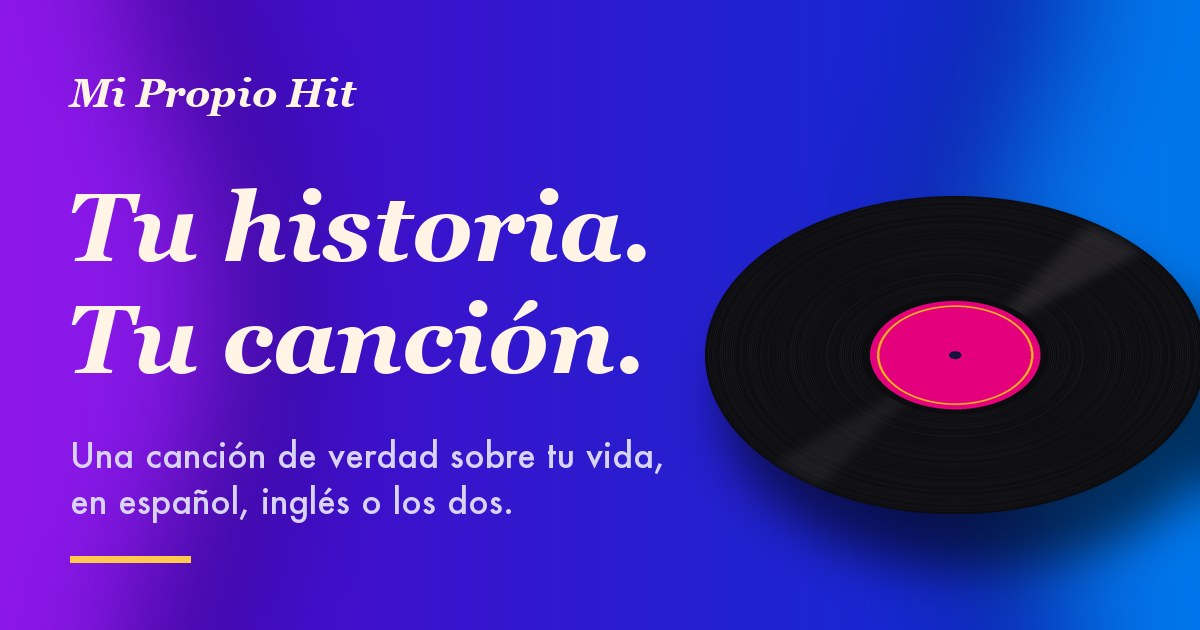
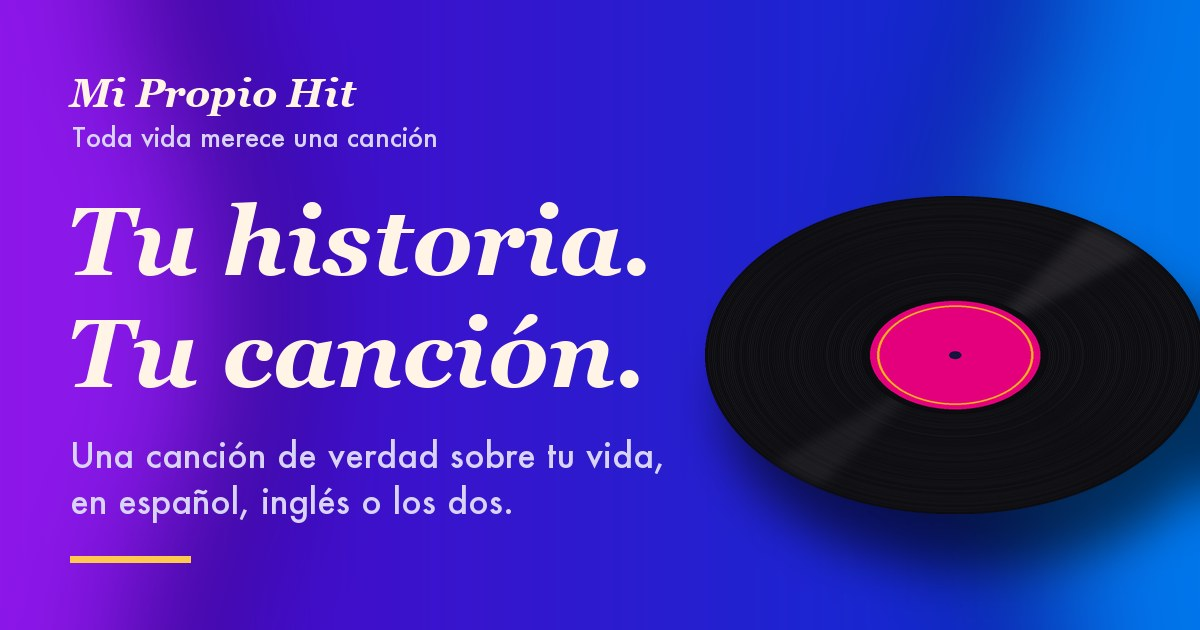
Tagline 'Every life deserves a song' / 'Toda vida merece una canción' always paired with the name: header, titles, footer, preview cards, email signatures

Changed region(s): [[0.0617, 0.3016, 0.555, 0.4524], [0.0617, 0.4825, 0.555, 0.6333], [0.0617, 0.181, 0.37, 0.2413]]

diff --git a/es.html b/es.html
@@ -3,14 +3,14 @@
 <head>
 <meta charset="utf-8">
 <meta name="viewport" content="width=device-width, initial-scale=1">
-<title>Mi Propio Hit | Tu historia, hecha tu propia canción</title>
+<title>Mi Propio Hit | Toda vida merece una canción</title>
 <meta name="description" content="Tu historia hecha una canción de verdad, en el estilo que siempre quisiste: corridos, oldies, R&amp;B, banda. En español, inglés o los dos. O hazle una a alguien que quieres.">
 <link rel="canonical" href="https://myownhit.com/es.html">
 <link rel="alternate" hreflang="en" href="https://myownhit.com/">
 <link rel="alternate" hreflang="es" href="https://myownhit.com/es.html">
 <link rel="alternate" hreflang="x-default" href="https://myownhit.com/">
 <meta property="og:type" content="website">
-<meta property="og:title" content="Mi Propio Hit | Tu historia, hecha tu propia canción">
+<meta property="og:title" content="Mi Propio Hit | Toda vida merece una canción">
 <meta property="og:description" content="Tu historia. Tu canción. En el estilo que siempre quisiste, en español, inglés o los dos.">
 <meta property="og:url" content="https://myownhit.com/es.html">
 <meta property="og:locale" content="es_US">
@@ -46,7 +46,7 @@
 
 <header class="top">
   <div class="wrap">
-    <a class="brand" href="es.html">Mi Propio Hit</a>
+    <a class="brand" href="es.html"><span class="brand-name">Mi Propio Hit</span><span class="brand-tag">Toda vida merece una canción</span></a>
     <nav aria-label="Principal">
       <a class="hide-sm" href="#listen">Escuchar</a>
       <a class="hide-sm" href="#examples">Ejemplos</a>
@@ -222,7 +222,7 @@ and every song it plays sounds like you to me.</blockquote>
 
 <footer>
   <div class="wrap">
-    <span>Mi Propio Hit es de <a href="https://ojedaworks.com/es.html">Ojeda Works</a>.</span>
+    <span><b>Mi Propio Hit</b>. Toda vida merece una canción. Hecho por <a href="https://ojedaworks.com/es.html">Ojeda Works</a>.</span>
     <span><a href="mailto:alejandro@ojedaworks.com">alejandro@ojedaworks.com</a> &nbsp; <a href="https://ojedaworks.com/privacidad.html">Privacidad</a></span>
   </div>
 </footer>

diff --git a/index.html b/index.html
@@ -3,14 +3,14 @@
 <head>
 <meta charset="utf-8">
 <meta name="viewport" content="width=device-width, initial-scale=1">
-<title>My Own Hit | Your story, made into your own song</title>
+<title>My Own Hit | Every life deserves a song</title>
 <meta name="description" content="Your story, made into a real song in the style you've always wanted: corridos, oldies, R&amp;B, country. In English, Spanish, or both. Or make one for someone you love.">
 <link rel="canonical" href="https://myownhit.com/">
 <link rel="alternate" hreflang="en" href="https://myownhit.com/">
 <link rel="alternate" hreflang="es" href="https://myownhit.com/es.html">
 <link rel="alternate" hreflang="x-default" href="https://myownhit.com/">
 <meta property="og:type" content="website">
-<meta property="og:title" content="My Own Hit | Your story, made into your own song">
+<meta property="og:title" content="My Own Hit | Every life deserves a song">
 <meta property="og:description" content="Your story. Your song. In the style you've always wanted, in English, Spanish, or both.">
 <meta property="og:url" content="https://myownhit.com/">
 <meta property="og:image" content="https://myownhit.com/assets/og-card.jpg">
@@ -45,7 +45,7 @@
 
 <header class="top">
   <div class="wrap">
-    <a class="brand" href="./">My Own Hit</a>
+    <a class="brand" href="./"><span class="brand-name">My Own Hit</span><span class="brand-tag">Every life deserves a song</span></a>
     <nav aria-label="Main">
       <a class="hide-sm" href="#listen">Listen</a>
       <a class="hide-sm" href="#examples">Examples</a>
@@ -221,7 +221,7 @@ and every song it plays sounds like you to me.</blockquote>
 
 <footer>
   <div class="wrap">
-    <span>My Own Hit is made by <a href="https://ojedaworks.com">Ojeda Works</a>.</span>
+    <span><b>My Own Hit</b>. Every life deserves a song. Made by <a href="https://ojedaworks.com">Ojeda Works</a>.</span>
     <span><a href="mailto:alejandro@ojedaworks.com">alejandro@ojedaworks.com</a> &nbsp; <a href="https://ojedaworks.com/privacy.html">Privacy</a></span>
   </div>
 </footer>

diff --git a/empezar.html b/empezar.html
@@ -33,7 +33,7 @@
 
 <header class="top">
   <div class="wrap">
-    <a class="brand" href="es.html">Mi Propio Hit</a>
+    <a class="brand" href="es.html"><span class="brand-name">Mi Propio Hit</span><span class="brand-tag">Toda vida merece una canción</span></a>
     <nav aria-label="Principal">
       <a class="hide-sm" href="es.html#listen">Escuchar</a>
       <a class="hide-sm" href="es.html#examples">Ejemplos</a>
@@ -265,7 +265,7 @@
 
 <footer>
   <div class="wrap">
-    <span>Mi Propio Hit es de <a href="https://ojedaworks.com/es.html">Ojeda Works</a>.</span>
+    <span><b>Mi Propio Hit</b>. Toda vida merece una canción. Hecho por <a href="https://ojedaworks.com/es.html">Ojeda Works</a>.</span>
     <span><a href="mailto:alejandro@ojedaworks.com">alejandro@ojedaworks.com</a> &nbsp; <a href="https://ojedaworks.com/privacidad.html">Privacidad</a></span>
   </div>
 </footer>

diff --git a/precios.html b/precios.html
@@ -33,7 +33,7 @@
 
 <header class="top">
   <div class="wrap">
-    <a class="brand" href="es.html">Mi Propio Hit</a>
+    <a class="brand" href="es.html"><span class="brand-name">Mi Propio Hit</span><span class="brand-tag">Toda vida merece una canción</span></a>
     <nav aria-label="Principal">
       <a class="hide-sm" href="es.html#listen">Escuchar</a>
       <a class="hide-sm" href="es.html#examples">Ejemplos</a>
@@ -89,7 +89,7 @@
 
 <footer>
   <div class="wrap">
-    <span>Mi Propio Hit es de <a href="https://ojedaworks.com/es.html">Ojeda Works</a>.</span>
+    <span><b>Mi Propio Hit</b>. Toda vida merece una canción. Hecho por <a href="https://ojedaworks.com/es.html">Ojeda Works</a>.</span>
     <span><a href="mailto:alejandro@ojedaworks.com">alejandro@ojedaworks.com</a> &nbsp; <a href="https://ojedaworks.com/privacidad.html">Privacidad</a></span>
   </div>
 </footer>

diff --git a/start.html b/start.html
@@ -33,7 +33,7 @@
 
 <header class="top">
   <div class="wrap">
-    <a class="brand" href="./">My Own Hit</a>
+    <a class="brand" href="./"><span class="brand-name">My Own Hit</span><span class="brand-tag">Every life deserves a song</span></a>
     <nav aria-label="Main">
       <a class="hide-sm" href="./#listen">Listen</a>
       <a class="hide-sm" href="./#examples">Examples</a>
@@ -265,7 +265,7 @@
 
 <footer>
   <div class="wrap">
-    <span>My Own Hit is made by <a href="https://ojedaworks.com">Ojeda Works</a>.</span>
+    <span><b>My Own Hit</b>. Every life deserves a song. Made by <a href="https://ojedaworks.com">Ojeda Works</a>.</span>
     <span><a href="mailto:alejandro@ojedaworks.com">alejandro@ojedaworks.com</a> &nbsp; <a href="https://ojedaworks.com/privacy.html">Privacy</a></span>
   </div>
 </footer>

diff --git a/pricing.html b/pricing.html
@@ -33,7 +33,7 @@
 
 <header class="top">
   <div class="wrap">
-    <a class="brand" href="./">My Own Hit</a>
+    <a class="brand" href="./"><span class="brand-name">My Own Hit</span><span class="brand-tag">Every life deserves a song</span></a>
     <nav aria-label="Main">
       <a class="hide-sm" href="./#listen">Listen</a>
       <a class="hide-sm" href="./#examples">Examples</a>
@@ -89,7 +89,7 @@
 
 <footer>
   <div class="wrap">
-    <span>My Own Hit is made by <a href="https://ojedaworks.com">Ojeda Works</a>.</span>
+    <span><b>My Own Hit</b>. Every life deserves a song. Made by <a href="https://ojedaworks.com">Ojeda Works</a>.</span>
     <span><a href="mailto:alejandro@ojedaworks.com">alejandro@ojedaworks.com</a> &nbsp; <a href="https://ojedaworks.com/privacy.html">Privacy</a></span>
   </div>
 </footer>

diff --git a/assets/site.css b/assets/site.css
@@ -364,3 +364,8 @@ input[type=text],input[type=email],input[type=tel],input[type=date],select,texta
 .chips .chip-group{flex-basis:100%;margin:.7rem 0 .1rem;font-size:.85rem;font-weight:600;color:var(--muted)}
 .chips .chip-group:first-of-type{margin-top:.2rem}
 .field.car textarea{min-height:6rem}
+
+/* brand lockup: name + tagline, always together */
+.brand{flex-direction:column;align-items:flex-start;justify-content:center;line-height:1;gap:.22rem}
+.brand-tag{font:500 .72rem/1 var(--body);color:var(--muted);letter-spacing:.01em;white-space:nowrap}
+@media (max-width:360px){.brand-tag{font-size:.62rem}}

diff --git a/setup/make_images.py b/setup/make_images.py
@@ -35,6 +35,9 @@ def record(size):
     return im.resize((size, size), Image.LANCZOS)
 
 
+TAGS = {"My Own Hit": "Every life deserves a song", "Mi Propio Hit": "Toda vida merece una canción"}
+
+
 def card(path, small, h1a, h1b, sub):
     W, H = 1200, 630
     # neon purple (left) meeting neon blue (right), like the site background
@@ -56,8 +59,9 @@ def card(path, small, h1a, h1b, sub):
     im.alpha_composite(rec, (705, 196))
     d = ImageDraw.Draw(im)
     d.text((70, 70), small, font=ImageFont.truetype(G, 40), fill=PAPER)
+    d.text((72, 120), TAGS[small], font=ImageFont.truetype(FUT, 26), fill=MUTED)
     f = ImageFont.truetype(G, 96)
-    d.text((66, 172), h1a, font=f, fill=PAPER); d.text((66, 284), h1b, font=f, fill=PAPER)
+    d.text((66, 186), h1a, font=f, fill=PAPER); d.text((66, 298), h1b, font=f, fill=PAPER)
     fs = ImageFont.truetype(FUT, 34); y = 432
     for line in sub:
         d.text((70, y), line, font=fs, fill=MUTED); y += 46
